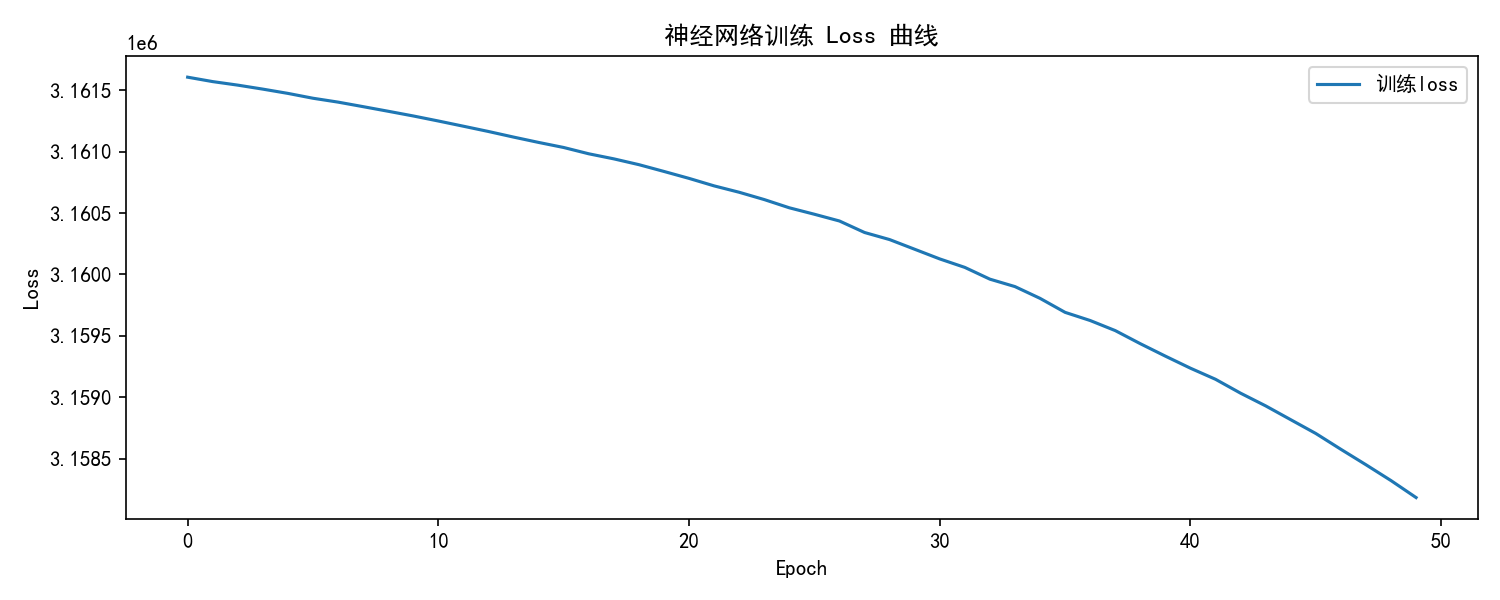
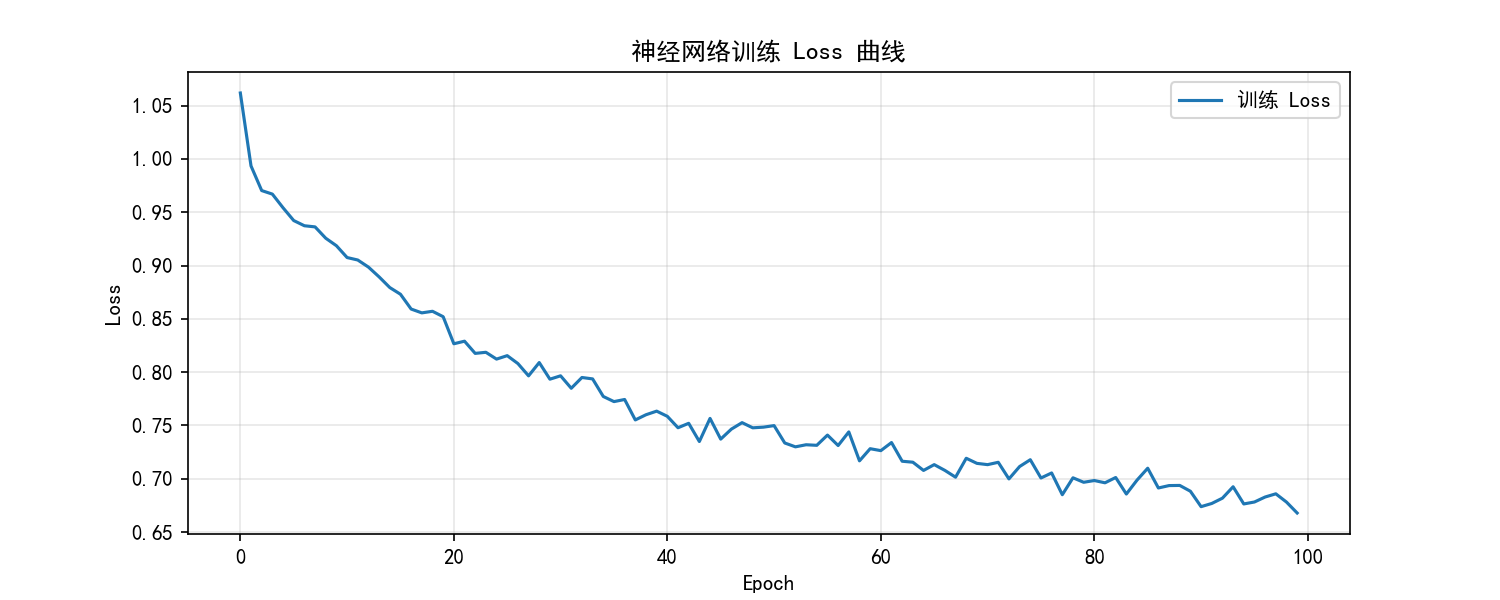
完善M3

diff --git a/modules/m3_model.py b/modules/m3_model.py
@@ -7,12 +7,10 @@ from sklearn.ensemble import RandomForestRegressor
 from sklearn.preprocessing import StandardScaler
 from sklearn.metrics import mean_absolute_error, mean_squared_error
 
-# 用 PyTorch 构建神经网络（可安装成功版）
 import torch
 import torch.nn as nn
 import torch.optim as optim
 
-# 输出文件夹
 if not os.path.exists("outputs"):
     os.mkdir("outputs")
 
@@ -21,7 +19,7 @@ plt.rcParams['axes.unicode_minus'] = False
 
 
 # ---------------------------------------------------------------------
-# 1. 构建【区域+时段】出行需求量数据集
+# 1. 构建数据集（区域+时段 → 出行需求量）
 # ---------------------------------------------------------------------
 def build_demand_dataset(df):
     demand_df = df.groupby(['PULocationID', 'hour']).agg(
@@ -29,55 +27,54 @@ def build_demand_dataset(df):
         day_of_week=('day_of_week', 'mean'),
         is_peak=('is_peak', 'mean')
     ).reset_index()
-
     X = demand_df[['PULocationID', 'hour', 'day_of_week', 'is_peak']].values
     y = demand_df['demand'].values
-
-    # --- 检验代码（可删除）---
-    print("构建需求量数据集完成")
-    print(f"数据集形状: {X.shape}")
-    print(f"前5条数据:\n{demand_df.head()}")
-    # --- 检验代码结束 ---
-
     return X, y, demand_df
 
 
 # ---------------------------------------------------------------------
-# 2. 8:2 划分训练集 / 测试集
+# 2. 8:2 划分数据集 + 【关键】标签标准化
 # ---------------------------------------------------------------------
 def split_train_test(X, y):
     X_train, X_test, y_train, y_test = train_test_split(
         X, y, test_size=0.2, random_state=42
     )
+    # 特征标准化
+    scaler_X = StandardScaler()
+    X_train = scaler_X.fit_transform(X_train)
+    X_test = scaler_X.transform(X_test)
 
-    scaler = StandardScaler()
-    X_train = scaler.fit_transform(X_train)
-    X_test = scaler.transform(X_test)
+    # 标签标准化（关键修复！）
+    scaler_y = StandardScaler()
+    y_train = scaler_y.fit_transform(y_train.reshape(-1, 1)).flatten()
+    y_test = scaler_y.transform(y_test.reshape(-1, 1)).flatten()
 
-    return X_train, X_test, y_train, y_test, scaler
+    return X_train, X_test, y_train, y_test, scaler_X, scaler_y
 
 
 # ---------------------------------------------------------------------
-# PyTorch 神经网络模型
+# 3. 神经网络模型（增强版）
 # ---------------------------------------------------------------------
 class DemandNet(nn.Module):
     def __init__(self, input_dim):
         super(DemandNet, self).__init__()
-        self.fc1 = nn.Linear(input_dim, 64)
-        self.fc2 = nn.Linear(64, 32)
-        self.fc3 = nn.Linear(32, 1)
-        self.dropout = nn.Dropout(0.2)
+        self.fc1 = nn.Linear(input_dim, 128)
+        self.fc2 = nn.Linear(128, 64)
+        self.fc3 = nn.Linear(64, 32)
+        self.fc4 = nn.Linear(32, 1)
+        self.dropout = nn.Dropout(0.3)
 
     def forward(self, x):
         x = torch.relu(self.fc1(x))
         x = self.dropout(x)
         x = torch.relu(self.fc2(x))
-        x = self.fc3(x)
-        return x
+        x = self.dropout(x)
+        x = torch.relu(self.fc3(x))
+        return self.fc4(x)
 
 
 # ---------------------------------------------------------------------
-# 3. 训练 PyTorch 神经网络
+# 4. 训练神经网络（修复版）
 # ---------------------------------------------------------------------
 def train_neural_network(X_train, y_train):
     X_train_tensor = torch.tensor(X_train, dtype=torch.float32)
@@ -85,12 +82,10 @@ def train_neural_network(X_train, y_train):
 
     model = DemandNet(X_train.shape[1])
     criterion = nn.MSELoss()
-    optimizer = optim.Adam(model.parameters(), lr=0.001)
+    optimizer = optim.Adam(model.parameters(), lr=0.005)  # 提高学习率
 
-    epochs = 50
+    epochs = 100  # 增加训练轮次
     loss_history = []
-    val_loss_history = []
-
     for epoch in range(epochs):
         model.train()
         optimizer.zero_grad()
@@ -98,18 +93,14 @@ def train_neural_network(X_train, y_train):
         loss = criterion(outputs, y_train_tensor)
         loss.backward()
         optimizer.step()
-
         loss_history.append(loss.item())
 
-        if epoch % 10 == 0:
-            print(f"Epoch {epoch+1}/{epochs}, Loss: {loss.item():.4f}")
-
-    history = {"loss": loss_history, "val_loss": val_loss_history}
+    history = {"loss": loss_history}
     return model, history
 
 
 # ---------------------------------------------------------------------
-# 4. 训练对比模型：随机森林
+# 5. 训练随机森林
 # ---------------------------------------------------------------------
 def train_random_forest(X_train, y_train):
     model = RandomForestRegressor(n_estimators=100, random_state=42)
@@ -118,81 +109,112 @@ def train_random_forest(X_train, y_train):
 
 
 # ---------------------------------------------------------------------
-# 5. 评估两个模型，输出 MAE、RMSE
+# 6. 评估 + 打印预测结果
 # ---------------------------------------------------------------------
-def evaluate_models(nn_model, rf_model, X_test, y_test):
-    # 神经网络预测
+def evaluate_and_show_results(nn_model, rf_model, X_test, y_test, demand_df, scaler_y):
     X_test_tensor = torch.tensor(X_test, dtype=torch.float32)
     nn_model.eval()
+
     with torch.no_grad():
         y_pred_nn = nn_model(X_test_tensor).numpy().flatten()
-
-    # 随机森林预测
     y_pred_rf = rf_model.predict(X_test)
 
-    # 指标
-    mae_nn = mean_absolute_error(y_test, y_pred_nn)
-    rmse_nn = np.sqrt(mean_squared_error(y_test, y_pred_nn))
-    mae_rf = mean_absolute_error(y_test, y_pred_rf)
-    rmse_rf = np.sqrt(mean_squared_error(y_test, y_pred_rf))
+    # 反标准化，还原成原始订单量
+    y_true_original = scaler_y.inverse_transform(y_test.reshape(-1, 1)).flatten()
+    y_pred_nn_original = scaler_y.inverse_transform(y_pred_nn.reshape(-1, 1)).flatten()
+    y_pred_rf_original = scaler_y.inverse_transform(y_pred_rf.reshape(-1, 1)).flatten()
 
-    report = f"""
-========== 模型对比结果 ==========
-PyTorch 神经网络：
-MAE = {mae_nn:.2f}
-RMSE = {rmse_nn:.2f}
+    mae_nn = mean_absolute_error(y_true_original, y_pred_nn_original)
+    rmse_nn = np.sqrt(mean_squared_error(y_true_original, y_pred_nn_original))
+    mae_rf = mean_absolute_error(y_true_original, y_pred_rf_original)
+    rmse_rf = np.sqrt(mean_squared_error(y_true_original, y_pred_rf_original))
 
-随机森林：
-MAE = {mae_rf:.2f}
-RMSE = {rmse_rf:.2f}
-==================================
-"""
-    print(report)
-    return report, mae_nn, rmse_nn, mae_rf, rmse_rf
+    # 打印表格
+    print("\n" + "=" * 85)
+    print(" 区域ID | 时段 | 真实订单量 | 神经网络预测 | 随机森林预测 ")
+    print("=" * 85)
+    for i in range(min(15, len(y_true_original))):
+        region = int(demand_df.iloc[i]['PULocationID'])
+        hour = int(demand_df.iloc[i]['hour'])
+        real = int(y_true_original[i])
+        p_nn = round(y_pred_nn_original[i])
+        p_rf = round(y_pred_rf_original[i])
+        print(f"  {region:>3}   |  {hour:>2}  |    {real:>3}     |     {p_nn:>3}      |     {p_rf:>3}")
+    print("=" * 85)
+
+    print(f"\n📊 模型指标")
+    print(f"神经网络 → MAE: {mae_nn:.2f} | RMSE: {rmse_nn:.2f}")
+    print(f"随机森林 → MAE: {mae_rf:.2f} | RMSE: {rmse_rf:.2f}")
+
+    return y_true_original, y_pred_nn_original, y_pred_rf_original, mae_nn, rmse_nn, mae_rf, rmse_rf
 
 
 # ---------------------------------------------------------------------
-# 6. 绘制 loss 曲线
+# 7. 绘制对比图
 # ---------------------------------------------------------------------
-def plot_loss_curve(history):
-    plt.figure(figsize=(10, 4))
-    plt.plot(history['loss'], label='训练loss')
-    plt.title('神经网络训练 Loss 曲线')
-    plt.xlabel('Epoch')
-    plt.ylabel('Loss')
+def plot_prediction_comparison(y_true, y_pred_nn, y_pred_rf):
+    sample_size = min(30, len(y_true))
+    x = np.arange(sample_size)
+
+    plt.figure(figsize=(14, 6))
+    plt.plot(x, y_true[:sample_size], marker='o', label="真实订单量", linewidth=2, color="#1f77b4")
+    plt.plot(x, y_pred_nn[:sample_size], marker='s', label="神经网络预测", linewidth=2, color="#ff7f0e")
+    plt.plot(x, y_pred_rf[:sample_size], marker='^', label="随机森林预测", linewidth=2, color="#2ca02c")
+
+    plt.title("出行需求量预测对比（真实值 vs 神经网络 vs 随机森林）", fontsize=14)
+    plt.xlabel("测试集样本序号", fontsize=12)
+    plt.ylabel("订单需求量", fontsize=12)
     plt.legend()
+    plt.grid(alpha=0.3)
     plt.tight_layout()
 
-    save_path = "outputs/m3_loss_curve.png"
-    plt.savefig(save_path, dpi=150)
-
-    # --- 检验代码（可删除）---
+    save_path = "outputs/m3_prediction_comparison.png"
+    plt.savefig(save_path, dpi=200)
     plt.show()
-    # --- 检验代码结束 ---
-
     return save_path
 
 
 # ---------------------------------------------------------------------
-# M3 总流水线（一键运行）
+# 8. 绘制 loss 曲线
+# ---------------------------------------------------------------------
+def plot_loss_curve(history):
+    plt.figure(figsize=(10, 4))
+    plt.plot(history['loss'], label='训练 Loss')
+    plt.title('神经网络训练 Loss 曲线')
+    plt.xlabel('Epoch')
+    plt.ylabel('Loss')
+    plt.legend()
+    plt.grid(alpha=0.3)
+    save_path = "outputs/m3_loss_curve.png"
+    plt.savefig(save_path, dpi=150)
+    plt.show()
+    return save_path
+
+
+# ---------------------------------------------------------------------
+# M3 主运行函数
 # ---------------------------------------------------------------------
 def run_m3_pipeline(df):
-    print("开始执行 M3 预测模型模块...")
+    print("\n===== M3 出行需求量预测模型（修复版）=====")
 
     X, y, demand_df = build_demand_dataset(df)
-    X_train, X_test, y_train, y_test, scaler = split_train_test(X, y)
+    X_train, X_test, y_train, y_test, scaler_X, scaler_y = split_train_test(X, y)
 
     nn_model, history = train_neural_network(X_train, y_train)
     rf_model = train_random_forest(X_train, y_train)
 
-    report, mae_nn, rmse_nn, mae_rf, rmse_rf = evaluate_models(nn_model, rf_model, X_test, y_test)
-    loss_img = plot_loss_curve(history)
+    y_true_original, y_pred_nn_original, y_pred_rf_original, mae_nn, rmse_nn, mae_rf, rmse_rf = evaluate_and_show_results(
+        nn_model, rf_model, X_test, y_test, demand_df, scaler_y
+    )
 
-    print("\n✅ M3 全部执行完成！")
+    plot_prediction_comparison(y_true_original, y_pred_nn_original, y_pred_rf_original)
+    plot_loss_curve(history)
+
+    print("\n✅ M3 全部完成！对比图已保存到 outputs 文件夹")
+
     return {
-        "nn_model": nn_model,
-        "rf_model": rf_model,
-        "scaler": scaler,
-        "report": report,
-        "loss_image": loss_img
+        "nn_mae": mae_nn,
+        "nn_rmse": rmse_nn,
+        "rf_mae": mae_rf,
+        "rf_rmse": rmse_rf
     }

diff --git a/main.py b/main.py
@@ -2,12 +2,18 @@ from modules.m1_data import run_m1_pipeline
 from modules.m2_visualize import run_m2_pipeline
 from modules.m3_model import run_m3_pipeline
 
-# 1. M1
-df_final, report = run_m1_pipeline("D:\\35120\\中大\\python作业\\期末大作业\\yellow_tripdata_2023-01.parquet")
+# 1. 运行 M1
+df_final, report = run_m1_pipeline("D:\\35120\\中大\\python作业\\期末大作业\\yellow_tripdata_2023-01.parquet")  # 记得改路径
 
-# 2. M2
+# 2. 运行 M2
 run_m2_pipeline(df_final)
 
-# 3. M3
+# 3. 运行 M3（已经修复报错）
 m3_result = run_m3_pipeline(df_final)
-print(m3_result["report"])
+
+# 4. 打印结果（正确写法，不再报错）
+print("\n最终 M3 模型指标：")
+print(f"神经网络 MAE: {m3_result['nn_mae']:.2f}")
+print(f"神经网络 RMSE: {m3_result['nn_rmse']:.2f}")
+print(f"随机森林 MAE: {m3_result['rf_mae']:.2f}")
+print(f"随机森林 RMSE: {m3_result['rf_rmse']:.2f}")
